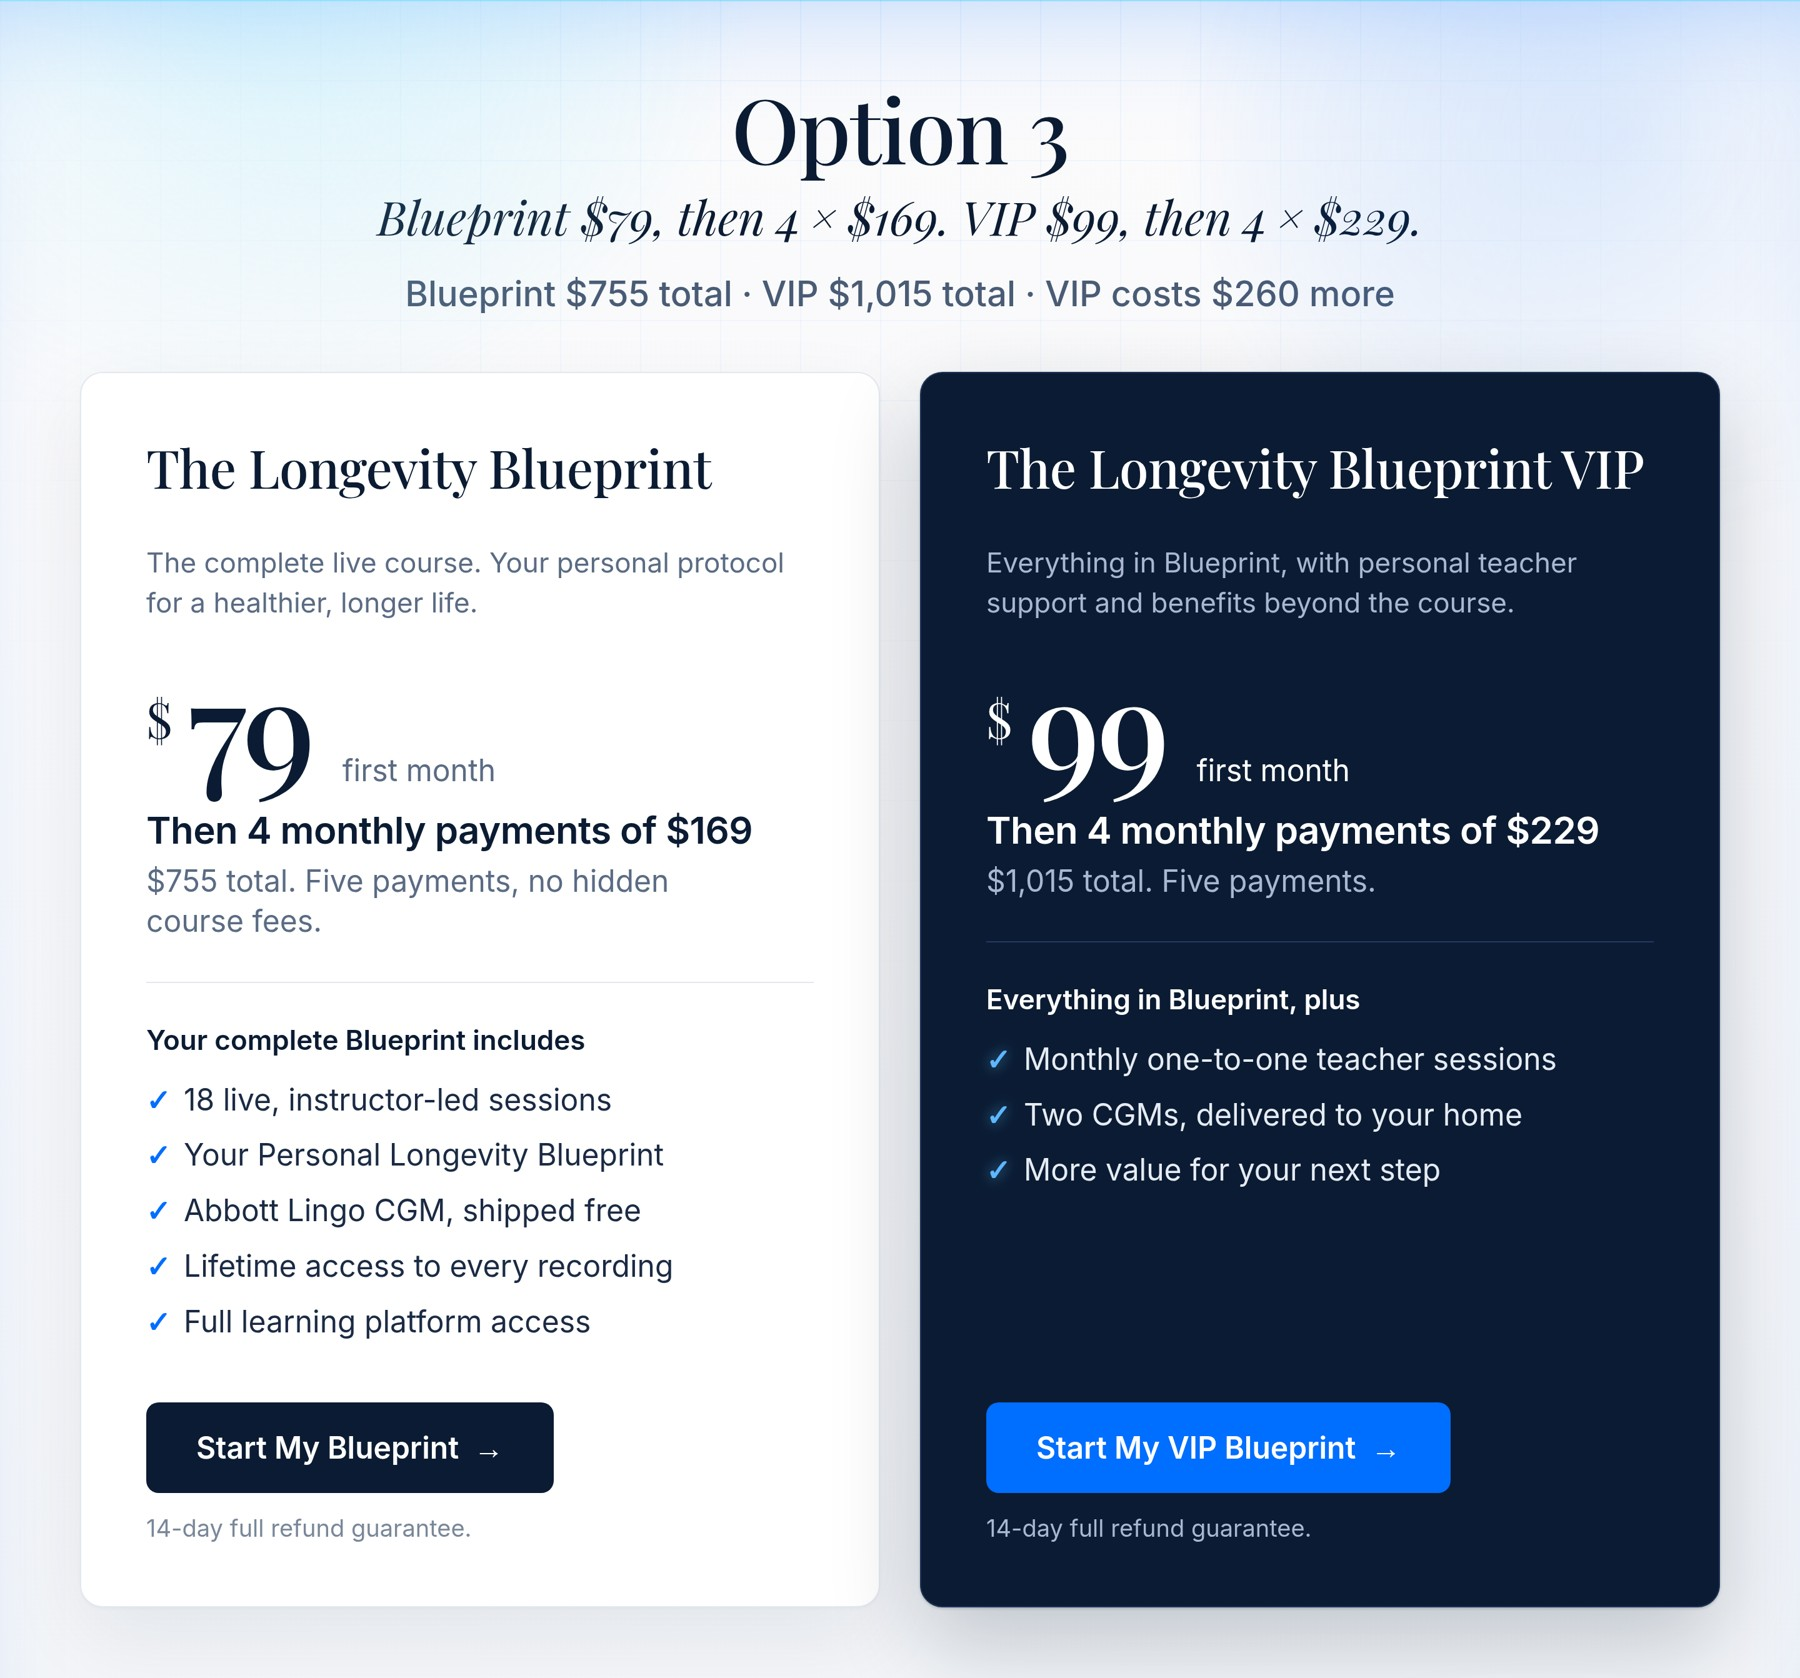
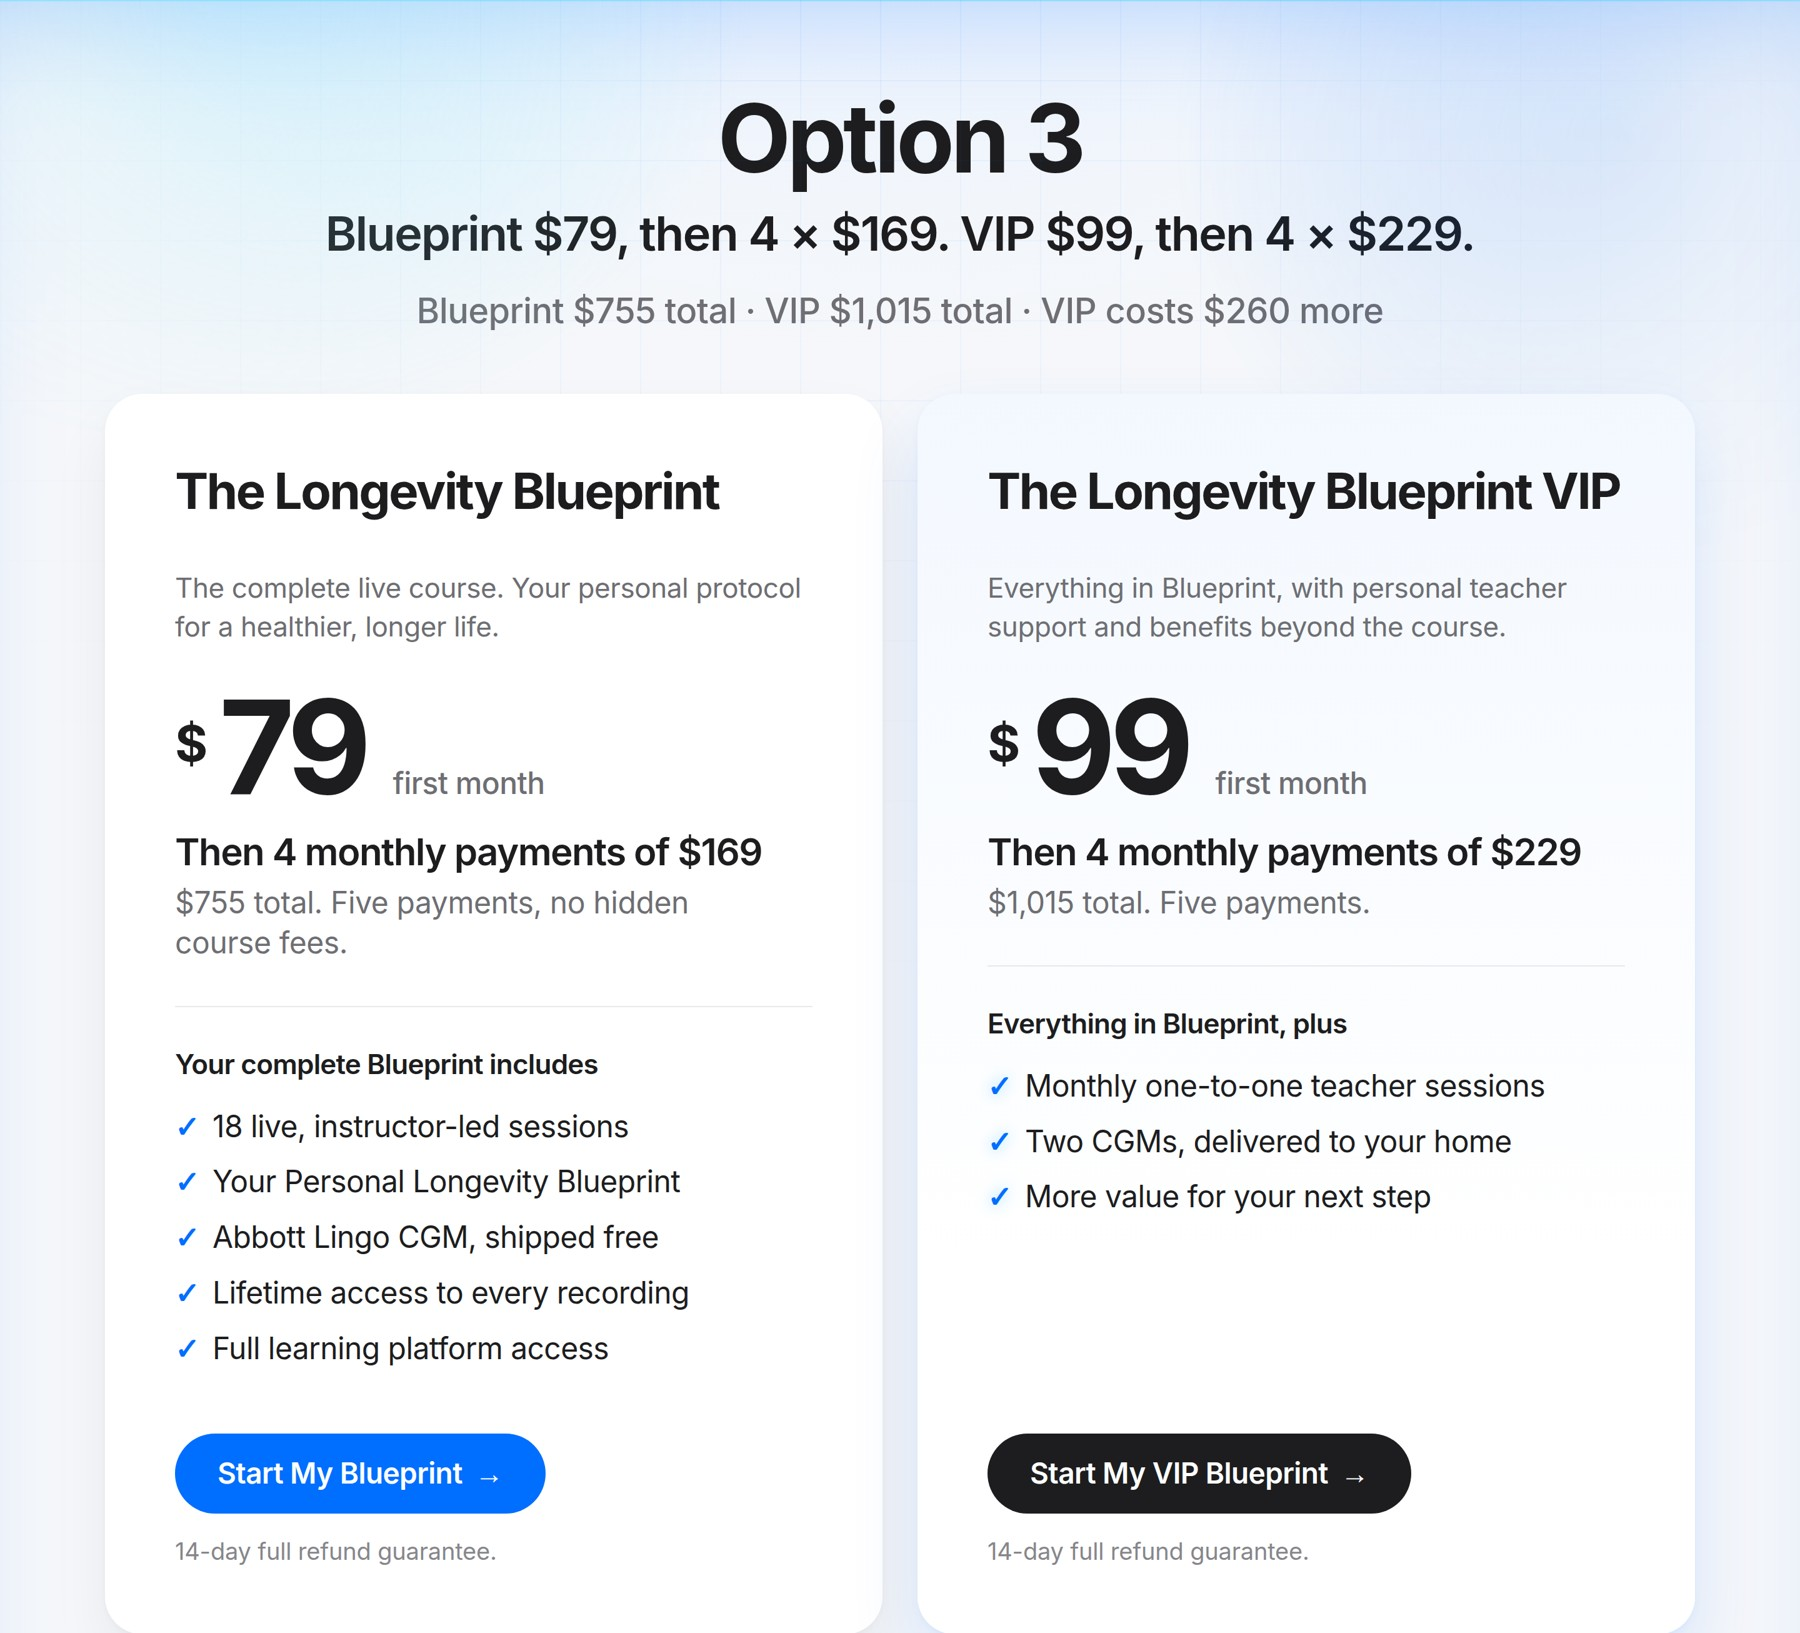
Apple-style light pricing cards

diff --git a/compare/apple.css b/compare/apple.css
@@ -1,0 +1,30 @@
+#lpRoot .bp-offer{background:radial-gradient(1100px 600px at 50% -10%,#EAF3FF 0%,rgba(234,243,255,0) 70%),#F5F7FA!important;padding:72px 0 80px!important}
+#lpRoot .bp-offer .bp-wrap{max-width:1320px!important;width:100%!important;padding:0 24px}
+#lpRoot .bp-offer .bp-heading{margin-bottom:44px!important;text-align:center}
+#lpRoot .bp-offer .bp-heading h2{font-family:"Inter",-apple-system,sans-serif!important;font-weight:700!important;font-style:normal!important;font-size:76px!important;line-height:1.02!important;letter-spacing:-3px!important;color:#1D1D1F!important}
+#lpRoot .bp-offer .bp-heading h2 em{display:block;font-style:normal!important;font-weight:600!important;font-size:.5em!important;color:#1D1D1F!important;margin-top:18px!important;letter-spacing:-1px!important}
+#lpRoot .opt-sum{font-family:"Inter",sans-serif!important;font-size:28px!important;font-weight:500!important;color:#6E6E73!important;margin:14px auto 0!important;text-align:center;letter-spacing:-.3px!important;white-space:nowrap}
+#lpRoot .bp-offer .bp-grid{gap:28px!important;max-width:1320px!important;perspective:none!important}
+#lpRoot .bp-card,#lpRoot .bp-card.bp-vip{transform:none!important;background:#FFFFFF!important;border:0!important;border-radius:30px!important;box-shadow:0 2px 6px rgba(0,0,0,.03),0 24px 48px rgba(0,0,0,.06)!important;padding:56px 56px 52px!important;display:flex!important;flex-direction:column!important;position:relative;overflow:hidden}
+#lpRoot .bp-card::before,#lpRoot .bp-card::after,#lpRoot .bp-card.bp-vip::before,#lpRoot .bp-card.bp-vip::after{display:none!important}
+#lpRoot .bp-card.bp-vip{background:linear-gradient(180deg,#F3F8FF 0%,#FFFFFF 70%)!important;box-shadow:0 2px 6px rgba(0,110,255,.05),0 28px 56px rgba(0,110,255,.12)!important}
+#lpRoot .bp-card h3{font-family:"Inter",sans-serif!important;font-weight:700!important;font-size:40px!important;line-height:1.08!important;letter-spacing:-1.4px!important;color:#1D1D1F!important;margin:0 0 10px!important}
+#lpRoot .bp-card .bp-desc{font-family:"Inter",sans-serif!important;font-size:22px!important;font-weight:400!important;line-height:1.4!important;color:#6E6E73!important;margin:0 0 34px!important;letter-spacing:-.2px}
+#lpRoot .bp-card .bp-price{display:flex!important;align-items:baseline!important;gap:10px!important;margin:0!important;color:#1D1D1F!important}
+#lpRoot .bp-card .bp-price sup{font-family:"Inter",sans-serif!important;font-size:40px!important;font-weight:700!important;color:#1D1D1F!important;align-self:flex-start;margin-top:12px;letter-spacing:-1px}
+#lpRoot .bp-card .bp-price strong{font-family:"Inter",sans-serif!important;font-weight:700!important;font-size:104px!important;line-height:.9!important;letter-spacing:-5px!important;color:#1D1D1F!important;background:none!important;-webkit-text-fill-color:#1D1D1F!important;text-shadow:none!important}
+#lpRoot .bp-card .bp-price span{font-family:"Inter",sans-serif!important;font-size:24px!important;font-weight:500!important;color:#6E6E73!important;letter-spacing:-.3px}
+#lpRoot .bp-card .bp-follow{font-family:"Inter",sans-serif!important;font-size:30px!important;font-weight:600!important;line-height:1.25!important;color:#1D1D1F!important;margin:18px 0 0!important;letter-spacing:-.8px}
+#lpRoot .bp-card .bp-total{font-family:"Inter",sans-serif!important;font-size:24px!important;font-weight:400!important;color:#6E6E73!important;margin:6px 0 0!important;line-height:1.35!important;letter-spacing:-.2px}
+#lpRoot .bp-card .bp-rule{height:1px!important;background:#E8E8ED!important;margin:34px 0 28px!important;box-shadow:none!important}
+#lpRoot .bp-card .bp-included{font-family:"Inter",sans-serif!important;font-size:22px!important;font-weight:600!important;color:#1D1D1F!important;margin:0 0 16px!important;letter-spacing:-.4px}
+#lpRoot .bp-card .bp-features{margin:0 0 40px!important;padding:0!important}
+#lpRoot .bp-card .bp-features li,#lpRoot .bp-card .bp-features li b,#lpRoot .bp-card .bp-features li strong{font-family:"Inter",sans-serif!important;font-size:24px!important;font-weight:400!important;line-height:1.35!important;color:#1D1D1F!important;margin-bottom:12px!important;letter-spacing:-.3px}
+#lpRoot .bp-card .bp-features li .bp-detail,#lpRoot .bp-card .bp-features li small,#lpRoot .bp-card .bp-features li span{display:none!important}
+#lpRoot .bp-card .bp-features li::before,#lpRoot .bp-card .bp-features li svg{color:#006EFF!important;fill:#006EFF!important}
+#lpRoot .bp-card .bp-button{margin-top:auto!important;display:inline-flex!important;width:auto!important;align-self:flex-start;justify-content:center!important;gap:10px!important;padding:18px 34px!important;border-radius:999px!important;font-family:"Inter",sans-serif!important;font-size:23px!important;font-weight:600!important;letter-spacing:-.3px!important;border:0!important;box-shadow:none!important;background:#006EFF!important;color:#FFFFFF!important}
+#lpRoot .bp-card .bp-button span:last-child{font-size:23px!important}
+#lpRoot .bp-card.bp-vip .bp-button{background:#1D1D1F!important}
+#lpRoot .bp-card .bp-guarantee{font-family:"Inter",sans-serif!important;font-size:19px!important;color:#86868B!important;margin:16px 0 0!important;text-align:left!important;letter-spacing:-.1px}
+#lpRoot .bp-card.bp-vip .bp-features li::before,#lpRoot .bp-card.bp-vip .bp-features li svg{color:#006EFF!important;fill:#006EFF!important}
+#lpRoot .bp-offer .bp-heading h2 em,#lpRoot .bp-offer .bp-heading h2 em *{font-family:"Inter",-apple-system,sans-serif!important;font-style:normal!important}

diff --git a/options/index.html b/options/index.html
@@ -1780,7 +1780,7 @@ body.lla-em-open #et-bumpyard-widget{display:none!important}
   html body#lpRoot #hero .pdp-cine-sub{font-family:'Inter',sans-serif!important;font-style:normal!important;text-transform:none!important}
 }
 </style>
-<link rel="stylesheet" href="../relaunch.css?v=vip199"><style id="opt-only">body>*:not(section.bp-offer):not(script):not(style){display:none!important}body>section.bp-offer{display:block!important}.bp-foot{display:none!important}.opt-sum{font-size:clamp(22px,2.2vw,30px)!important;font-weight:700;color:#0B1B33;margin:18px auto 0;text-align:center;letter-spacing:-.4px;max-width:none!important;white-space:nowrap}.bp-heading h2 em{display:block;font-size:.72em;margin-top:6px}[class^="lla-cta"],.lla-cta,#llaCta,.lla-sticky-cta,.lla-float-cta,#llaFloatCta,[id^="llaFloat"],.lla-float-cta--home{display:none!important;visibility:hidden!important}</style><link href="https://fonts.googleapis.com/css2?family=Playfair+Display:ital,wght@0,400;0,500;0,600;1,400;1,500&display=swap" rel="stylesheet"><link rel="stylesheet" href="../compare/luxury.css?v=l2"></head>
+<link rel="stylesheet" href="../relaunch.css?v=vip199"><style id="opt-only">body>*:not(section.bp-offer):not(script):not(style){display:none!important}body>section.bp-offer{display:block!important}.bp-foot{display:none!important}.opt-sum{font-size:clamp(22px,2.2vw,30px)!important;font-weight:700;color:#0B1B33;margin:18px auto 0;text-align:center;letter-spacing:-.4px;max-width:none!important;white-space:nowrap}.bp-heading h2 em{display:block;font-size:.72em;margin-top:6px}[class^="lla-cta"],.lla-cta,#llaCta,.lla-sticky-cta,.lla-float-cta,#llaFloatCta,[id^="llaFloat"],.lla-float-cta--home{display:none!important;visibility:hidden!important}</style><link href="https://fonts.googleapis.com/css2?family=Playfair+Display:ital,wght@0,400;0,500;0,600;1,400;1,500&display=swap" rel="stylesheet"><link rel="stylesheet" href="../compare/apple.css?v=a2"></head>
 <body id="lpRoot">
 <!-- Google Tag Manager (noscript) -->
 

diff --git a/compare/index.html b/compare/index.html
@@ -1,4 +1,4 @@
 <!doctype html><html lang="en"><head><meta charset="utf-8"><meta name="viewport" content="width=device-width,initial-scale=1"><meta name="robots" content="noindex"><title>Blueprint VIP pricing · 3 options</title>
 <style>body{margin:0;background:#F3F7FC;font-family:-apple-system,Inter,sans-serif;color:#0B1B33}.w{max-width:1100px;margin:0 auto;padding:16px 10px 40px}h1{font-size:22px;margin:6px 6px 14px;letter-spacing:-.3px}img{width:100%;display:block;border-radius:14px;box-shadow:0 6px 24px rgba(11,27,51,.12);margin-bottom:18px;background:#fff}</style></head>
 <body><div class="w"><h1>Blueprint VIP pricing · 3 options</h1>
-<img src="option-1.jpg?v=14" alt="Option 1: VIP $99, then 4 × $199"><img src="option-2.jpg?v=14" alt="Option 2: VIP $129, then 4 × $229"><img src="option-3.jpg?v=14" alt="Option 3: VIP $99, then 4 × $229"></div></body></html>
+<img src="option-1.jpg?v=15" alt="Option 1: VIP $99, then 4 × $199"><img src="option-2.jpg?v=15" alt="Option 2: VIP $129, then 4 × $229"><img src="option-3.jpg?v=15" alt="Option 3: VIP $99, then 4 × $229"></div></body></html>
